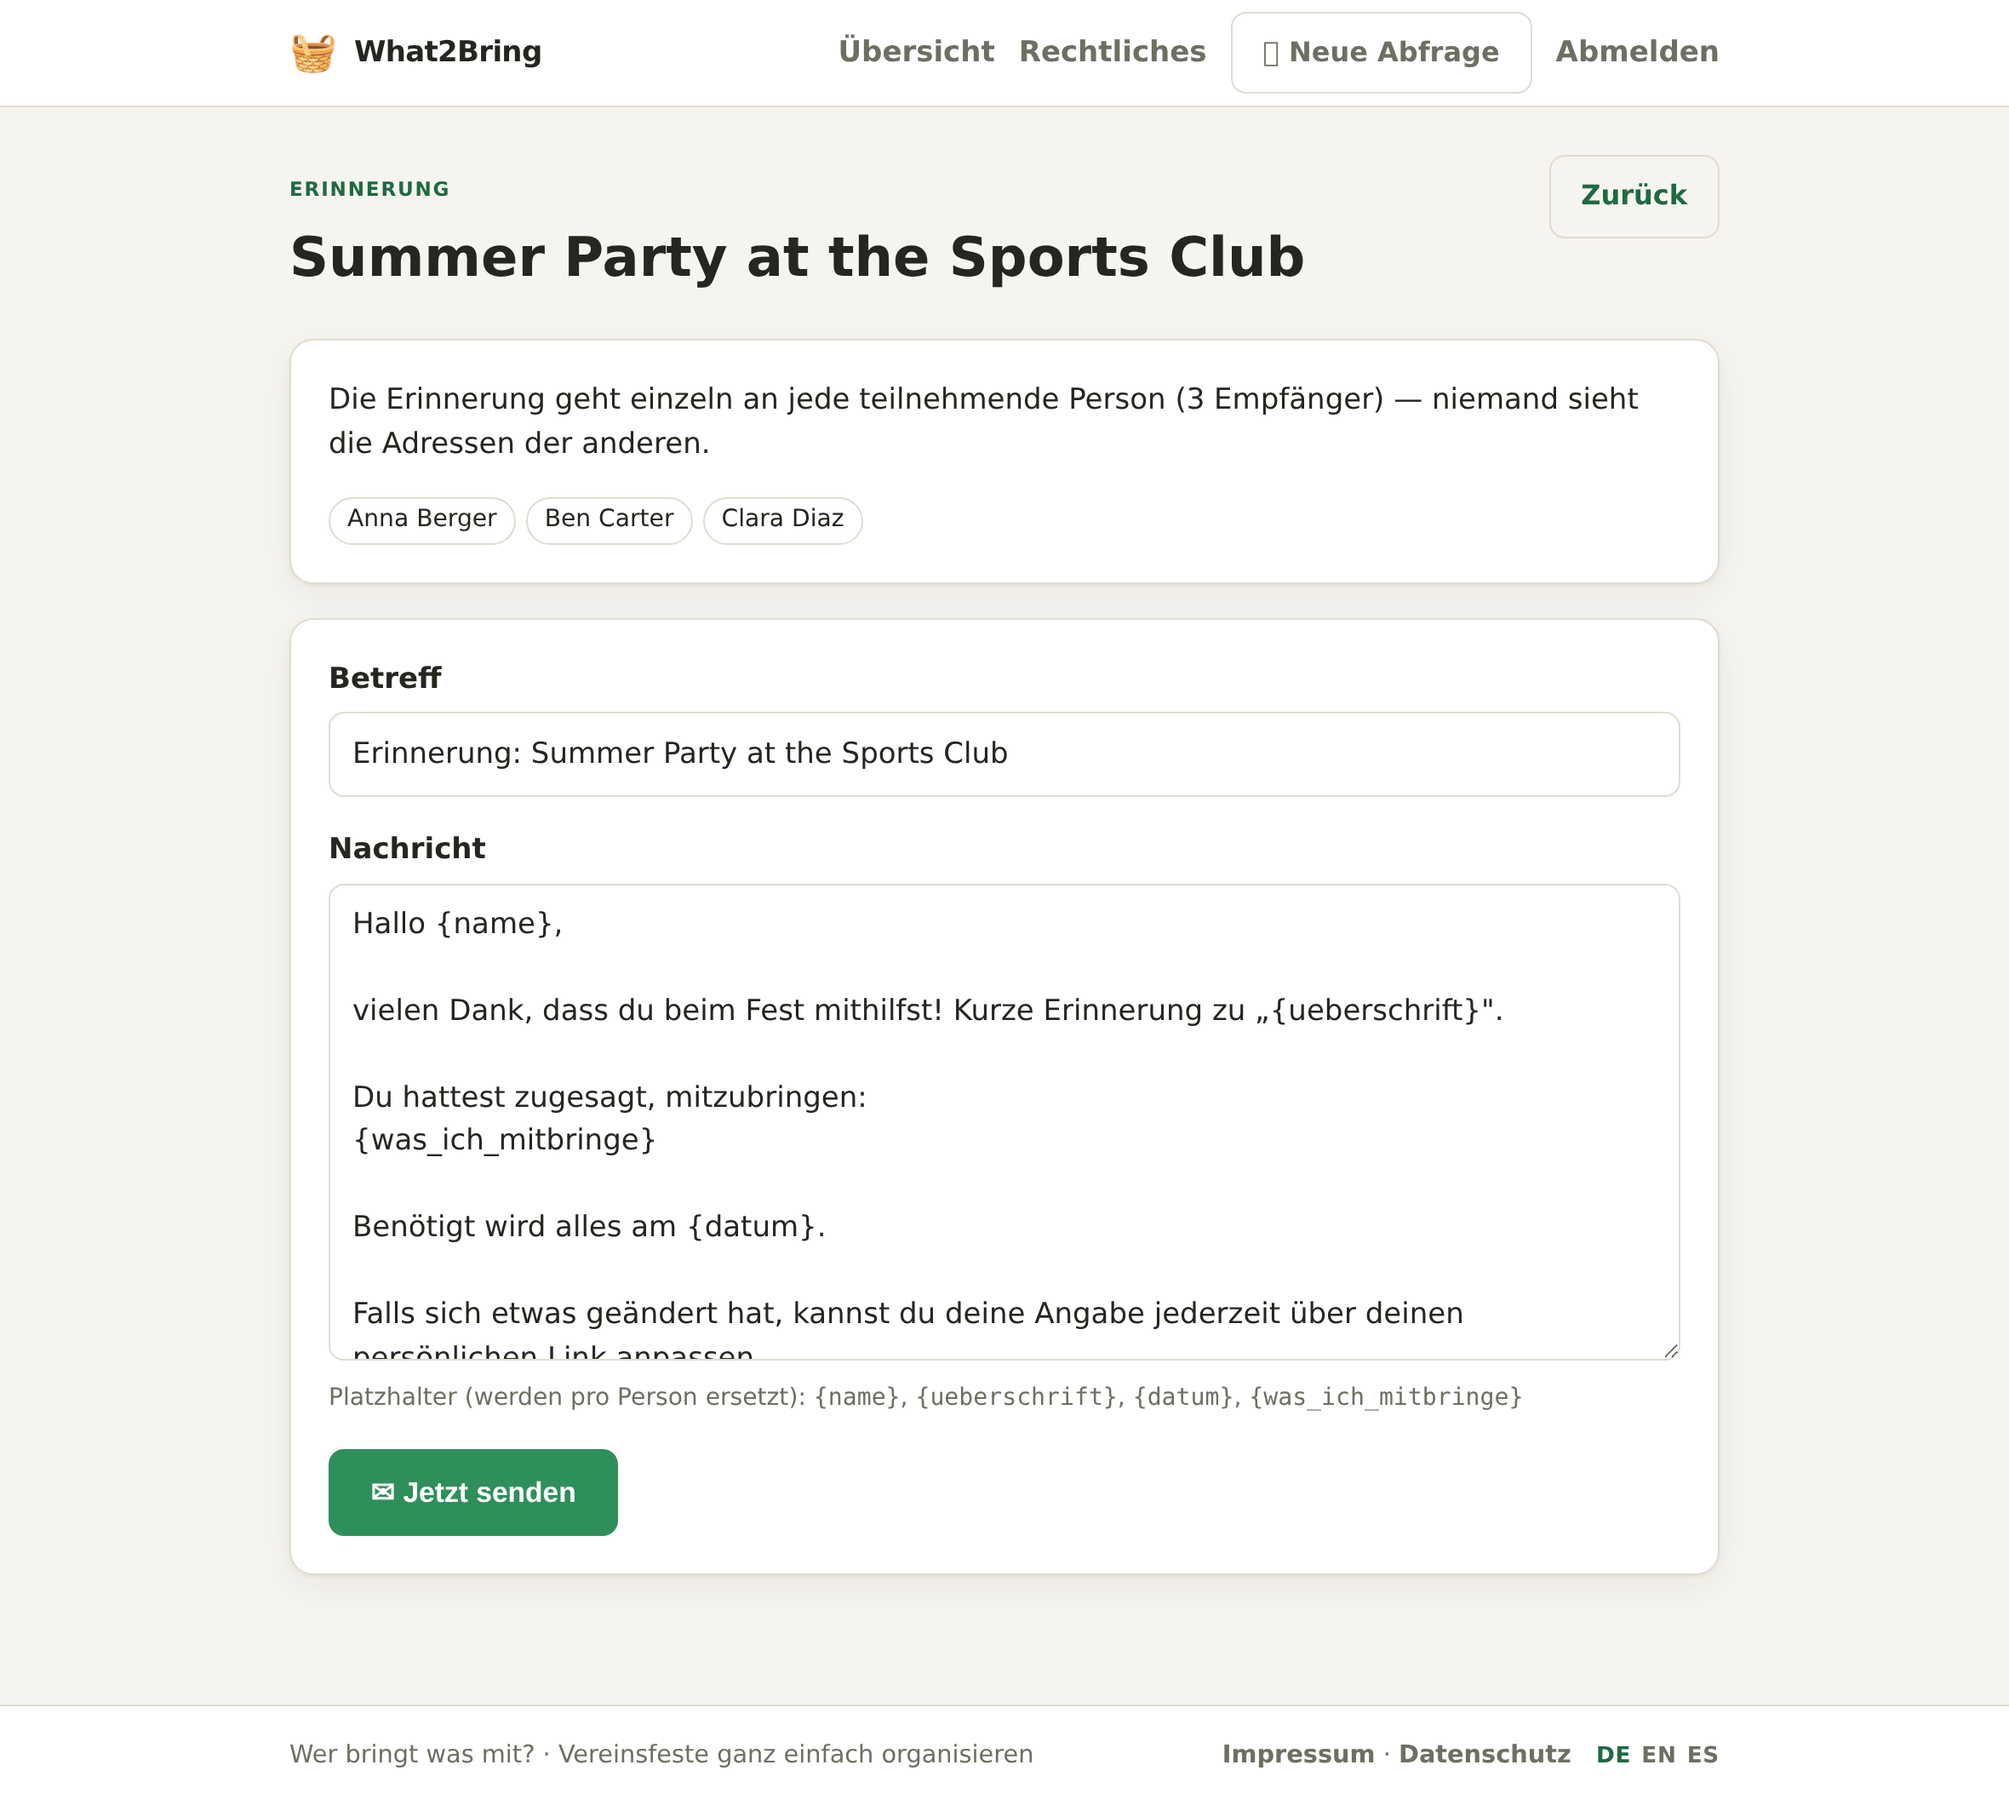
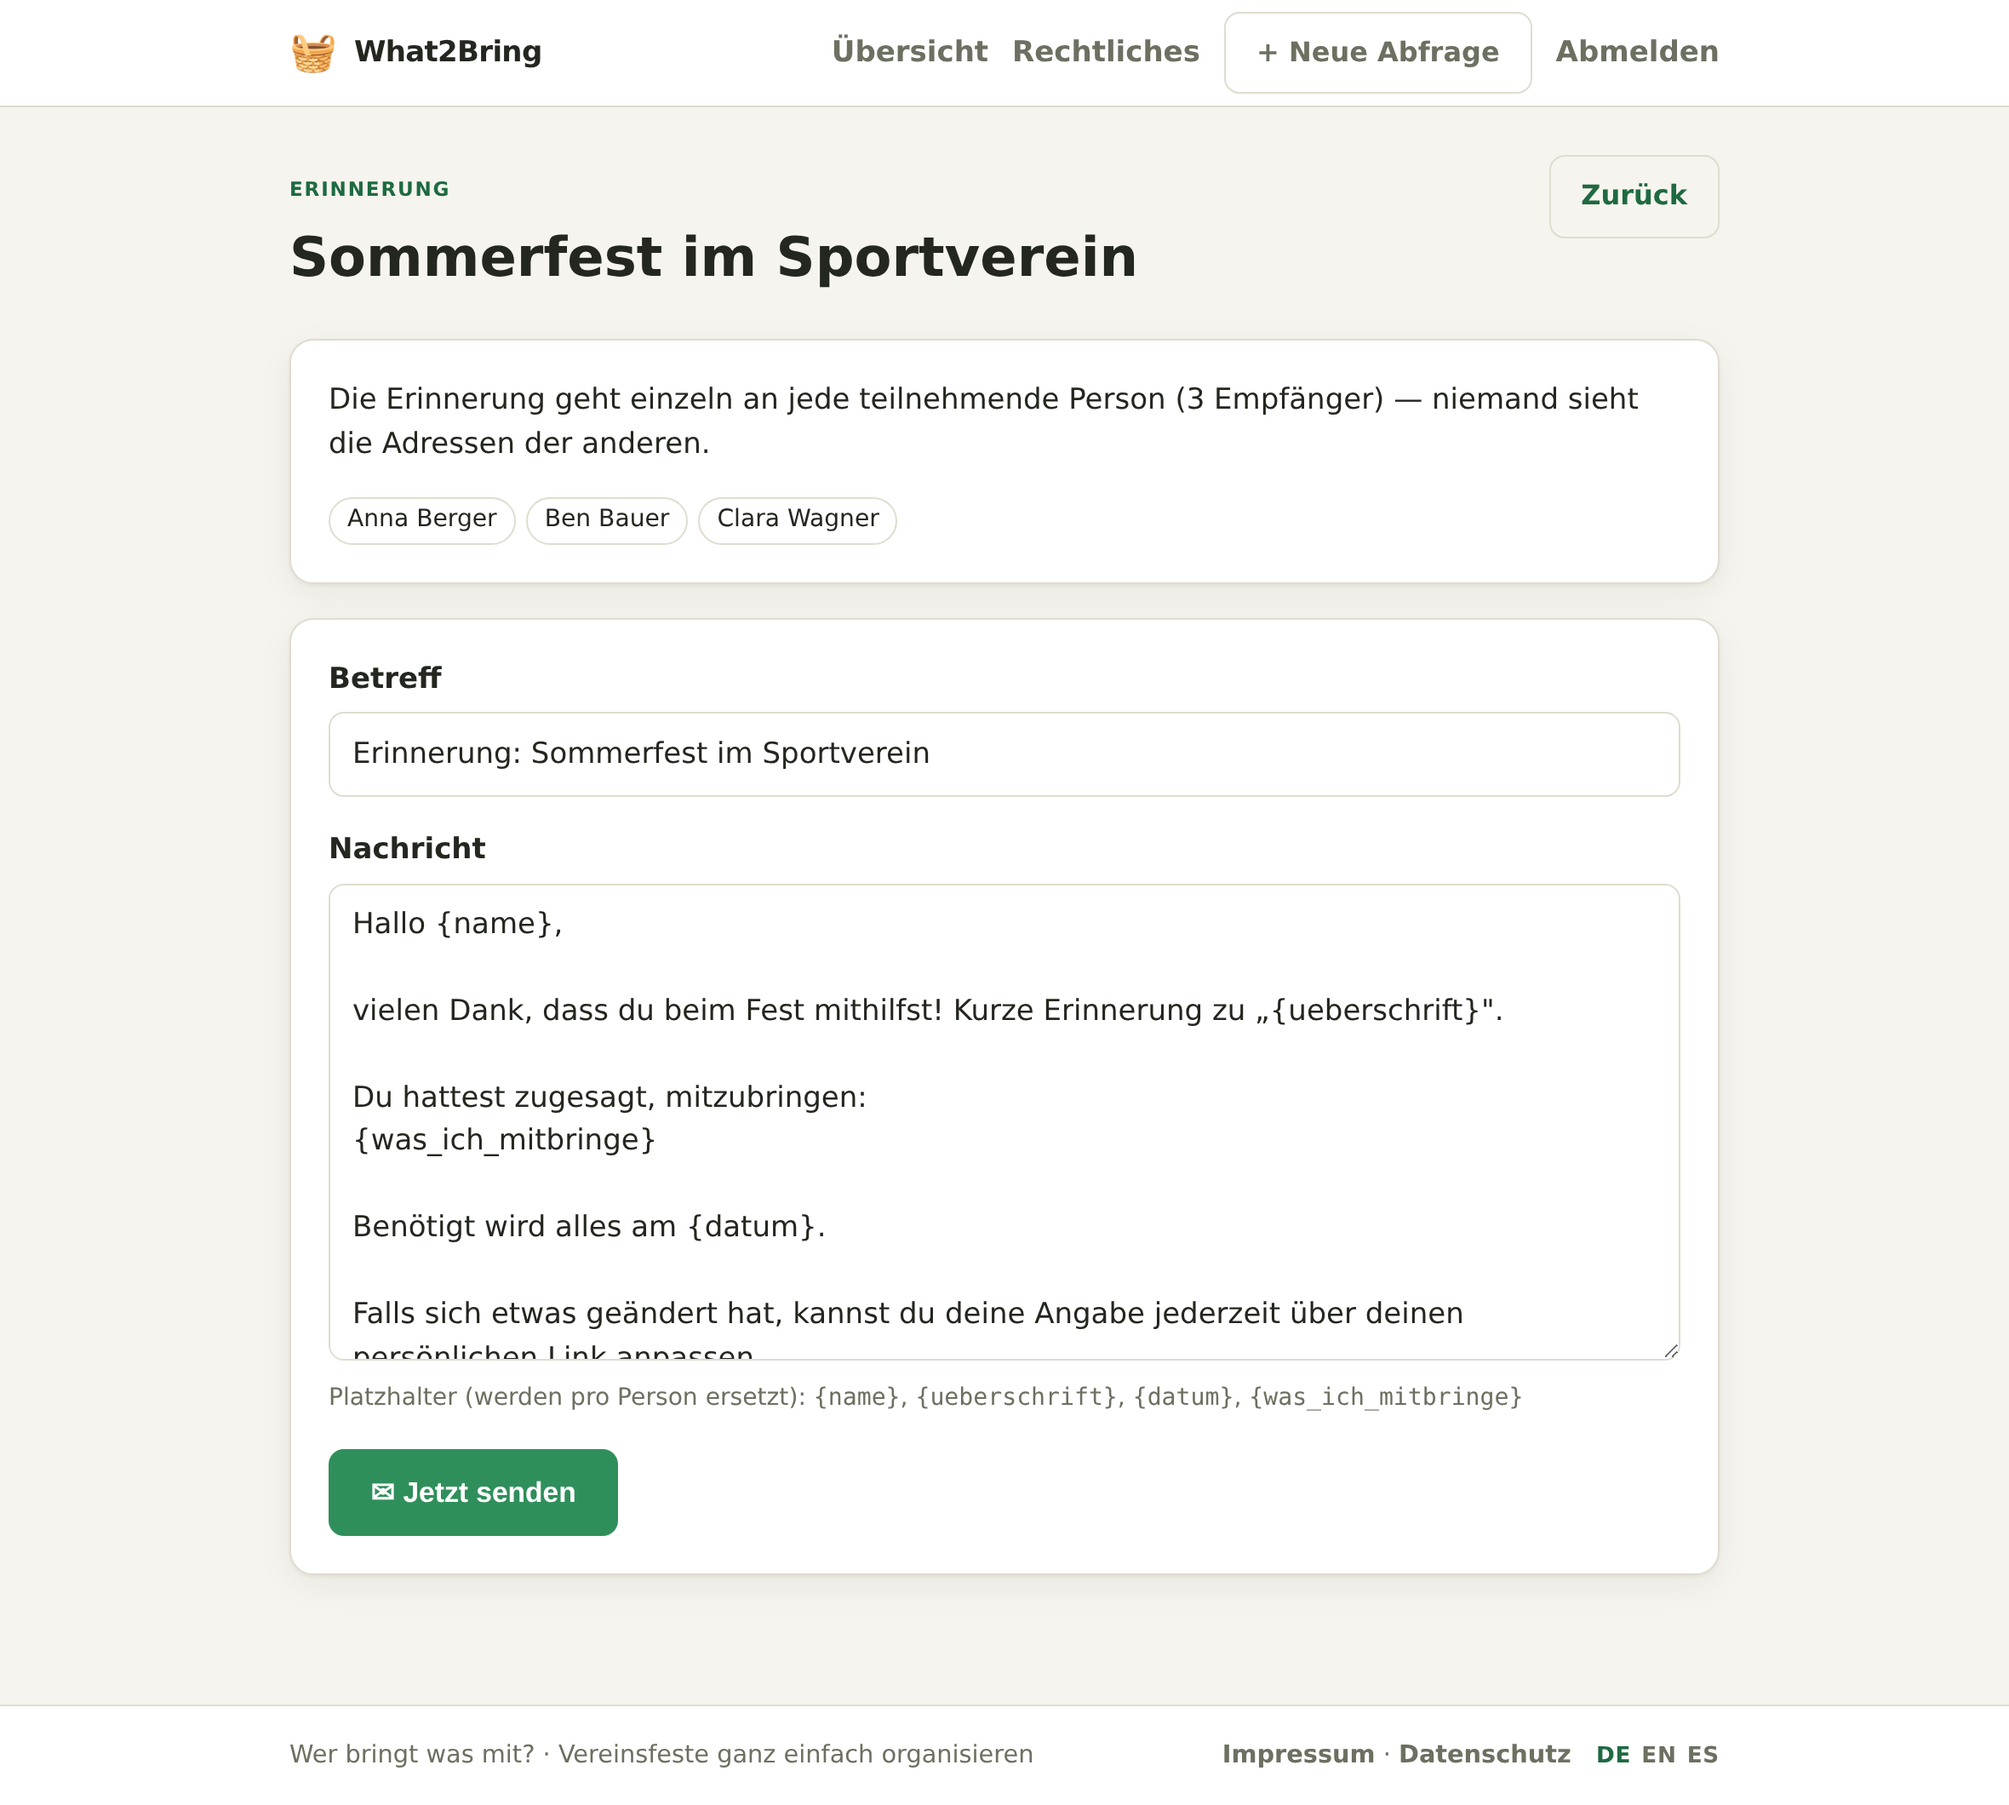
change(i18n-de): 'Ding/Dinge' -> 'Sache/Sachen' (Wunsch); '+' statt Vollbreiten-Plus
- inc/lang/de.php: alle 'Ding/Dinge' grammatik-korrekt durch 'Sache/Sachen' ersetzt (nur DE; EN/ES unveraendert)
- docs/HANDBUCH.md entsprechend angepasst
- Buttons: normales '+' statt ＋ (sauberere Darstellung)
- Screenshots neu erzeugt (EN + DE, deutsche Screenshots jetzt mit deutschen Demo-Inhalten)

diff --git a/inc/lang/de.php b/inc/lang/de.php
@@ -37,7 +37,7 @@ return [
     'dash.empty_title'  => 'Noch keine Abfrage',
     'dash.empty_text'   => 'Lege deine erste Abfrage an — z. B. „Sommerfest: Wer bringt was mit?“.',
     'dash.empty_cta'    => 'Erste Abfrage anlegen',
-    'dash.things'       => '{n} Dinge',
+    'dash.things'       => '{n} Sachen',
     'dash.participants' => '{n} Teilnehmende',
     'dash.open'         => 'Öffnen',
 
@@ -51,7 +51,7 @@ return [
     'vis.none_status'         => 'Für Teilnehmende privat',
     // Sichtbarkeit (Optionen im Formular)
     'vis.who_and_what'       => 'Wer & was anzeigen',
-    'vis.who_and_what_desc'  => 'Teilnehmende sehen, welche Dinge schon von wem mitgebracht werden (mit Details, ohne E-Mail).',
+    'vis.who_and_what_desc'  => 'Teilnehmende sehen, welche Sachen schon von wem mitgebracht werden (mit Details, ohne E-Mail).',
     'vis.names_only'         => 'Nur Namen anzeigen',
     'vis.names_only_desc'    => 'Teilnehmende sehen die Namen der bisher Teilnehmenden, aber nicht wer was bringt.',
     'vis.none'               => 'Nichts anzeigen',
@@ -71,11 +71,11 @@ return [
     'form.date_hint'     => 'Wann werden die Sachen gebraucht? (optional)',
     'form.email_required_label' => 'E-Mail-Adresse ist Pflicht',
     'form.email_required_hint'  => 'Wenn deaktiviert, können Teilnehmende auch ohne E-Mail mitmachen — sie erhalten dann aber keine Erinnerung.',
-    'form.things_title'  => 'Benötigte Dinge',
+    'form.things_title'  => 'Benötigte Sachen',
     'form.things_hint'   => 'z. B. Kuchen, Salat, Obst … — Teilnehmende können daraus auswählen.',
-    'form.thing_ph'      => 'Ding, z. B. Kuchen',
+    'form.thing_ph'      => 'Sache, z. B. Kuchen',
     'form.remove'        => 'Zeile entfernen',
-    'form.add_thing'     => 'Ding hinzufügen',
+    'form.add_thing'     => 'Sache hinzufügen',
     'form.visibility_title' => 'Sichtbarkeit für Teilnehmende',
     'form.visibility_hint'  => 'Was sehen Teilnehmende über die Beiträge der anderen? E-Mail-Adressen werden nie angezeigt.',
     'form.save_changes'  => 'Änderungen speichern',
@@ -94,8 +94,8 @@ return [
     'view.view'          => 'Ansehen',
     'view.regen'         => 'Neuen Link erzeugen (alten ungültig machen)',
     'view.regen_confirm' => 'Neuen Link erzeugen? Der bisherige Link wird ungültig.',
-    'view.things_title'  => 'Benötigte Dinge ({n})',
-    'view.no_things'     => 'Keine Dinge definiert.',
+    'view.things_title'  => 'Benötigte Sachen ({n})',
+    'view.no_things'     => 'Keine Sachen definiert.',
     'view.contribs_title'=> 'Wer bringt was mit? ({n})',
     'view.csv_export'    => 'CSV-Export',
     'view.no_contribs'   => 'Noch keine Rückmeldungen.',
@@ -137,9 +137,9 @@ return [
     // Teilnahme-Seite
     'poll.eyebrow'       => 'Wer bringt was mit?',
     'poll.needed_on'     => 'Benötigt am',
-    'poll.no_things'     => 'Für diese Abfrage wurden noch keine Dinge hinterlegt.',
+    'poll.no_things'     => 'Für diese Abfrage wurden noch keine Sachen hinterlegt.',
     'poll.choose_title'  => 'Was möchtest du mitbringen?',
-    'poll.choose_hint'   => 'Mehrfachauswahl möglich. Du kannst zu jedem Ding noch Details angeben.',
+    'poll.choose_hint'   => 'Mehrfachauswahl möglich. Du kannst zu jeder Sache noch Details angeben.',
     'poll.detail_ph'     => 'Details, z. B. „2 Bleche Marmorkuchen“',
     'poll.your_data'     => 'Deine Angaben',
     'poll.name'          => 'Name',
@@ -167,7 +167,7 @@ return [
     'msg.wrong_password' => 'Falsches Passwort.',
     'msg.too_many'       => 'Zu viele Fehlversuche. Bitte {s} Sekunden warten.',
     'msg.need_title'     => 'Bitte eine Überschrift angeben.',
-    'msg.need_thing'     => 'Bitte mindestens ein benötigtes Ding angeben.',
+    'msg.need_thing'     => 'Bitte mindestens eine benötigte Sache angeben.',
     'msg.poll_created'   => 'Abfrage angelegt. Der Teilnahme-Link steht unten bereit.',
     'msg.poll_not_found' => 'Abfrage nicht gefunden.',
     'msg.saved'          => 'Änderungen gespeichert.',
@@ -180,7 +180,7 @@ return [
     'msg.need_name'      => 'Bitte den Namen angeben.',
     'msg.need_email'     => 'Bitte eine gültige E-Mail-Adresse angeben.',
     'msg.email_invalid'  => 'Die E-Mail-Adresse ist ungültig.',
-    'msg.need_selection' => 'Bitte mindestens ein Ding auswählen, das du mitbringst.',
+    'msg.need_selection' => 'Bitte mindestens eine Sache auswählen, die du mitbringst.',
     'msg.csrf'           => 'Ungültiges oder abgelaufenes Formular (CSRF). Bitte die Seite neu laden und erneut versuchen.',
 
     // Installer

diff --git a/templates/layout.php b/templates/layout.php
@@ -20,7 +20,7 @@
             <nav class="topnav">
                 <a href="<?= e(url('admin')) ?>"><?= e(t('nav.overview')) ?></a>
                 <a href="<?= e(url('admin.legal')) ?>"><?= e(t('nav.legal')) ?></a>
-                <a class="btn btn--ghost" href="<?= e(url('admin.poll_new')) ?>">＋ <?= e(t('nav.new_poll')) ?></a>
+                <a class="btn btn--ghost" href="<?= e(url('admin.poll_new')) ?>">+ <?= e(t('nav.new_poll')) ?></a>
                 <form method="post" action="<?= e(url('admin.logout')) ?>" class="inline">
                     <?= csrf_field() ?>
                     <button type="submit" class="linklike"><?= e(t('nav.logout')) ?></button>

diff --git a/templates/admin/poll_form.php b/templates/admin/poll_form.php
@@ -73,7 +73,7 @@ $visKeys = ['who_and_what', 'names_only', 'none'];
             <?php endforeach; ?>
         </div>
         <div class="spacer-s"></div>
-        <button type="button" class="btn btn--ghost" id="addItem">＋ <?= e(t('form.add_thing')) ?></button>
+        <button type="button" class="btn btn--ghost" id="addItem">+ <?= e(t('form.add_thing')) ?></button>
     </div>
 
     <div class="card">

diff --git a/templates/admin/dashboard.php b/templates/admin/dashboard.php
@@ -4,7 +4,7 @@
         <p class="eyebrow"><?= e(t('dash.eyebrow')) ?></p>
         <h1><?= e(t('dash.title')) ?></h1>
     </div>
-    <a class="btn" href="<?= e(url('admin.poll_new')) ?>">＋ <?= e(t('nav.new_poll')) ?></a>
+    <a class="btn" href="<?= e(url('admin.poll_new')) ?>">+ <?= e(t('nav.new_poll')) ?></a>
 </div>
 
 <?php if (!$polls): ?>

diff --git a/docs/HANDBUCH.md b/docs/HANDBUCH.md
@@ -1,7 +1,7 @@
 # What2Bring — Handbuch
 
 **What2Bring** ist eine kleine, selbst gehostete Web-App für die klassische Vereinsfest-Frage: **„Wer bringt was mit?"**
-Eine Organisatorin oder ein Organisator (Admin) legt eine *Abfrage* an, in der die benötigten Dinge stehen — Kuchen, Salat, Obst, Getränke —
+Eine Organisatorin oder ein Organisator (Admin) legt eine *Abfrage* an, in der die benötigten Sachen stehen — Kuchen, Salat, Obst, Getränke —
 und teilt einen einzigen **geheimen Link**. Die Teilnehmenden öffnen diesen Link, haken ab, was sie mitbringen, ergänzen ein, zwei Details
 und tragen ihren Namen ein (E-Mail je Abfrage optional). Keine Konten, keine App, läuft auf günstigem Shared-Hosting.
 
@@ -71,7 +71,7 @@ Rufe `…/index.php?r=admin.login` auf und gib dein Admin-Passwort ein.
 ![Anmeldung](img/de/02-login.png)
 
 ## 4. Die Übersicht
-Nach der Anmeldung landest du in der **Übersicht** — der Liste aller deiner Abfragen mit Datum, Anzahl der Dinge, Anzahl der
+Nach der Anmeldung landest du in der **Übersicht** — der Liste aller deiner Abfragen mit Datum, Anzahl der Sachen, Anzahl der
 Teilnehmenden und einem Sichtbarkeits-Abzeichen. Über **＋ Neue Abfrage** legst du eine an.
 
 ![Übersicht](img/de/03-dashboard.png)
@@ -81,10 +81,10 @@ Teilnehmenden und einem Sichtbarkeits-Abzeichen. Über **＋ Neue Abfrage** legs
 
 - **Überschrift** — der Titel, den die Teilnehmenden sehen (z. B. *„Sommerfest im Sportverein"*).
 - **Beschreibung** — ein paar freundliche Sätze (optional).
-- **Benötigt am** — das Datum, an dem die Dinge gebraucht werden (optional).
+- **Benötigt am** — das Datum, an dem die Sachen gebraucht werden (optional).
 - **E-Mail-Adresse ist erforderlich** — ein Schalter je Abfrage. Ist er **aus**, können Leute *ohne* E-Mail-Adresse
   mitmachen (sie erhalten dann einfach keine Erinnerungen).
-- **Benötigte Dinge** — füge so viele hinzu, wie du möchtest (Kuchen, Salat, Obst …). Die Teilnehmenden wählen daraus aus.
+- **Benötigte Sachen** — füge so viele hinzu, wie du möchtest (Kuchen, Salat, Obst …). Die Teilnehmenden wählen daraus aus.
 - **Sichtbarkeit für Teilnehmende** — was Leute über die Einträge *anderer* sehen. E-Mail-Adressen werden **nie** gezeigt:
   - **Wer & was anzeigen** — Namen + was sie mitbringen (mit Details).
   - **Nur Namen anzeigen** — nur, wer mitmacht.
@@ -96,7 +96,7 @@ Teilnehmenden und einem Sichtbarkeits-Abzeichen. Über **＋ Neue Abfrage** legs
 - **Teilnahme-Link** — die geheime URL zum Verschicken. Sie enthält einen zufälligen Schlüssel; nur wer den Link hat, erreicht die
   Abfrage (Suchmaschinen werden per `noindex` ausgesperrt). **Kopiere** ihn oder **öffne** ihn in einem neuen Tab.
 - **Neuen Link erzeugen** — wechselt den Schlüssel. Der **alte Link funktioniert sofort nicht mehr** (praktisch, falls ein Link durchgesickert ist).
-- **Benötigte Dinge** — ein schneller Überblick über die festgelegten Dinge.
+- **Benötigte Sachen** — ein schneller Überblick über die festgelegten Sachen.
 - **Wer bringt was mit?** — jede Rückmeldung, **inklusive der E-Mail-Adresse** (nur für dich sichtbar, nie öffentlich).
   Einträge ohne E-Mail zeigen „— (keine E-Mail)".
 - **CSV-Export** — lade alle Rückmeldungen (Name, E-Mail, bringt mit, Aktualisiert) als semikolon-getrennte UTF-8-Datei herunter, die
@@ -120,15 +120,15 @@ Kontaktiert werden nur Teilnehmende, die eine E-Mail angegeben haben. Das Nachri
 Sprache vorbelegt — passe sie vor dem Senden nach Belieben an.
 
 ## 8. Die Teilnahmeseite
-Das sehen Leute, wenn sie den geheimen Link öffnen. Sie haken die Dinge ab, die sie mitbringen, ergänzen optional ein Detail
-pro Ding und tragen ihren Namen ein (und die E-Mail, falls erforderlich). Ein erneutes Absenden mit der **gleichen E-Mail**
+Das sehen Leute, wenn sie den geheimen Link öffnen. Sie haken die Sachen ab, die sie mitbringen, ergänzen optional ein Detail
+pro Sache und tragen ihren Namen ein (und die E-Mail, falls erforderlich). Ein erneutes Absenden mit der **gleichen E-Mail**
 aktualisiert den vorherigen Eintrag, statt ein Duplikat anzulegen.
 
 | Desktop | Mobil |
 |---|---|
 | ![Teilnahmeseite](img/de/08-public-poll.png) | ![Teilnahmeseite auf dem Handy](img/de/09-public-poll-mobile.png) |
 
-Je nach Sichtbarkeit der Abfrage sehen sie außerdem einen Bereich **„Wer ist dabei"** (Namen oder Namen + Dinge). Nach dem
+Je nach Sichtbarkeit der Abfrage sehen sie außerdem einen Bereich **„Wer ist dabei"** (Namen oder Namen + Sachen). Nach dem
 Absenden erhalten sie eine freundliche Bestätigung:
 
 ![Danke](img/de/10-thanks.png)
